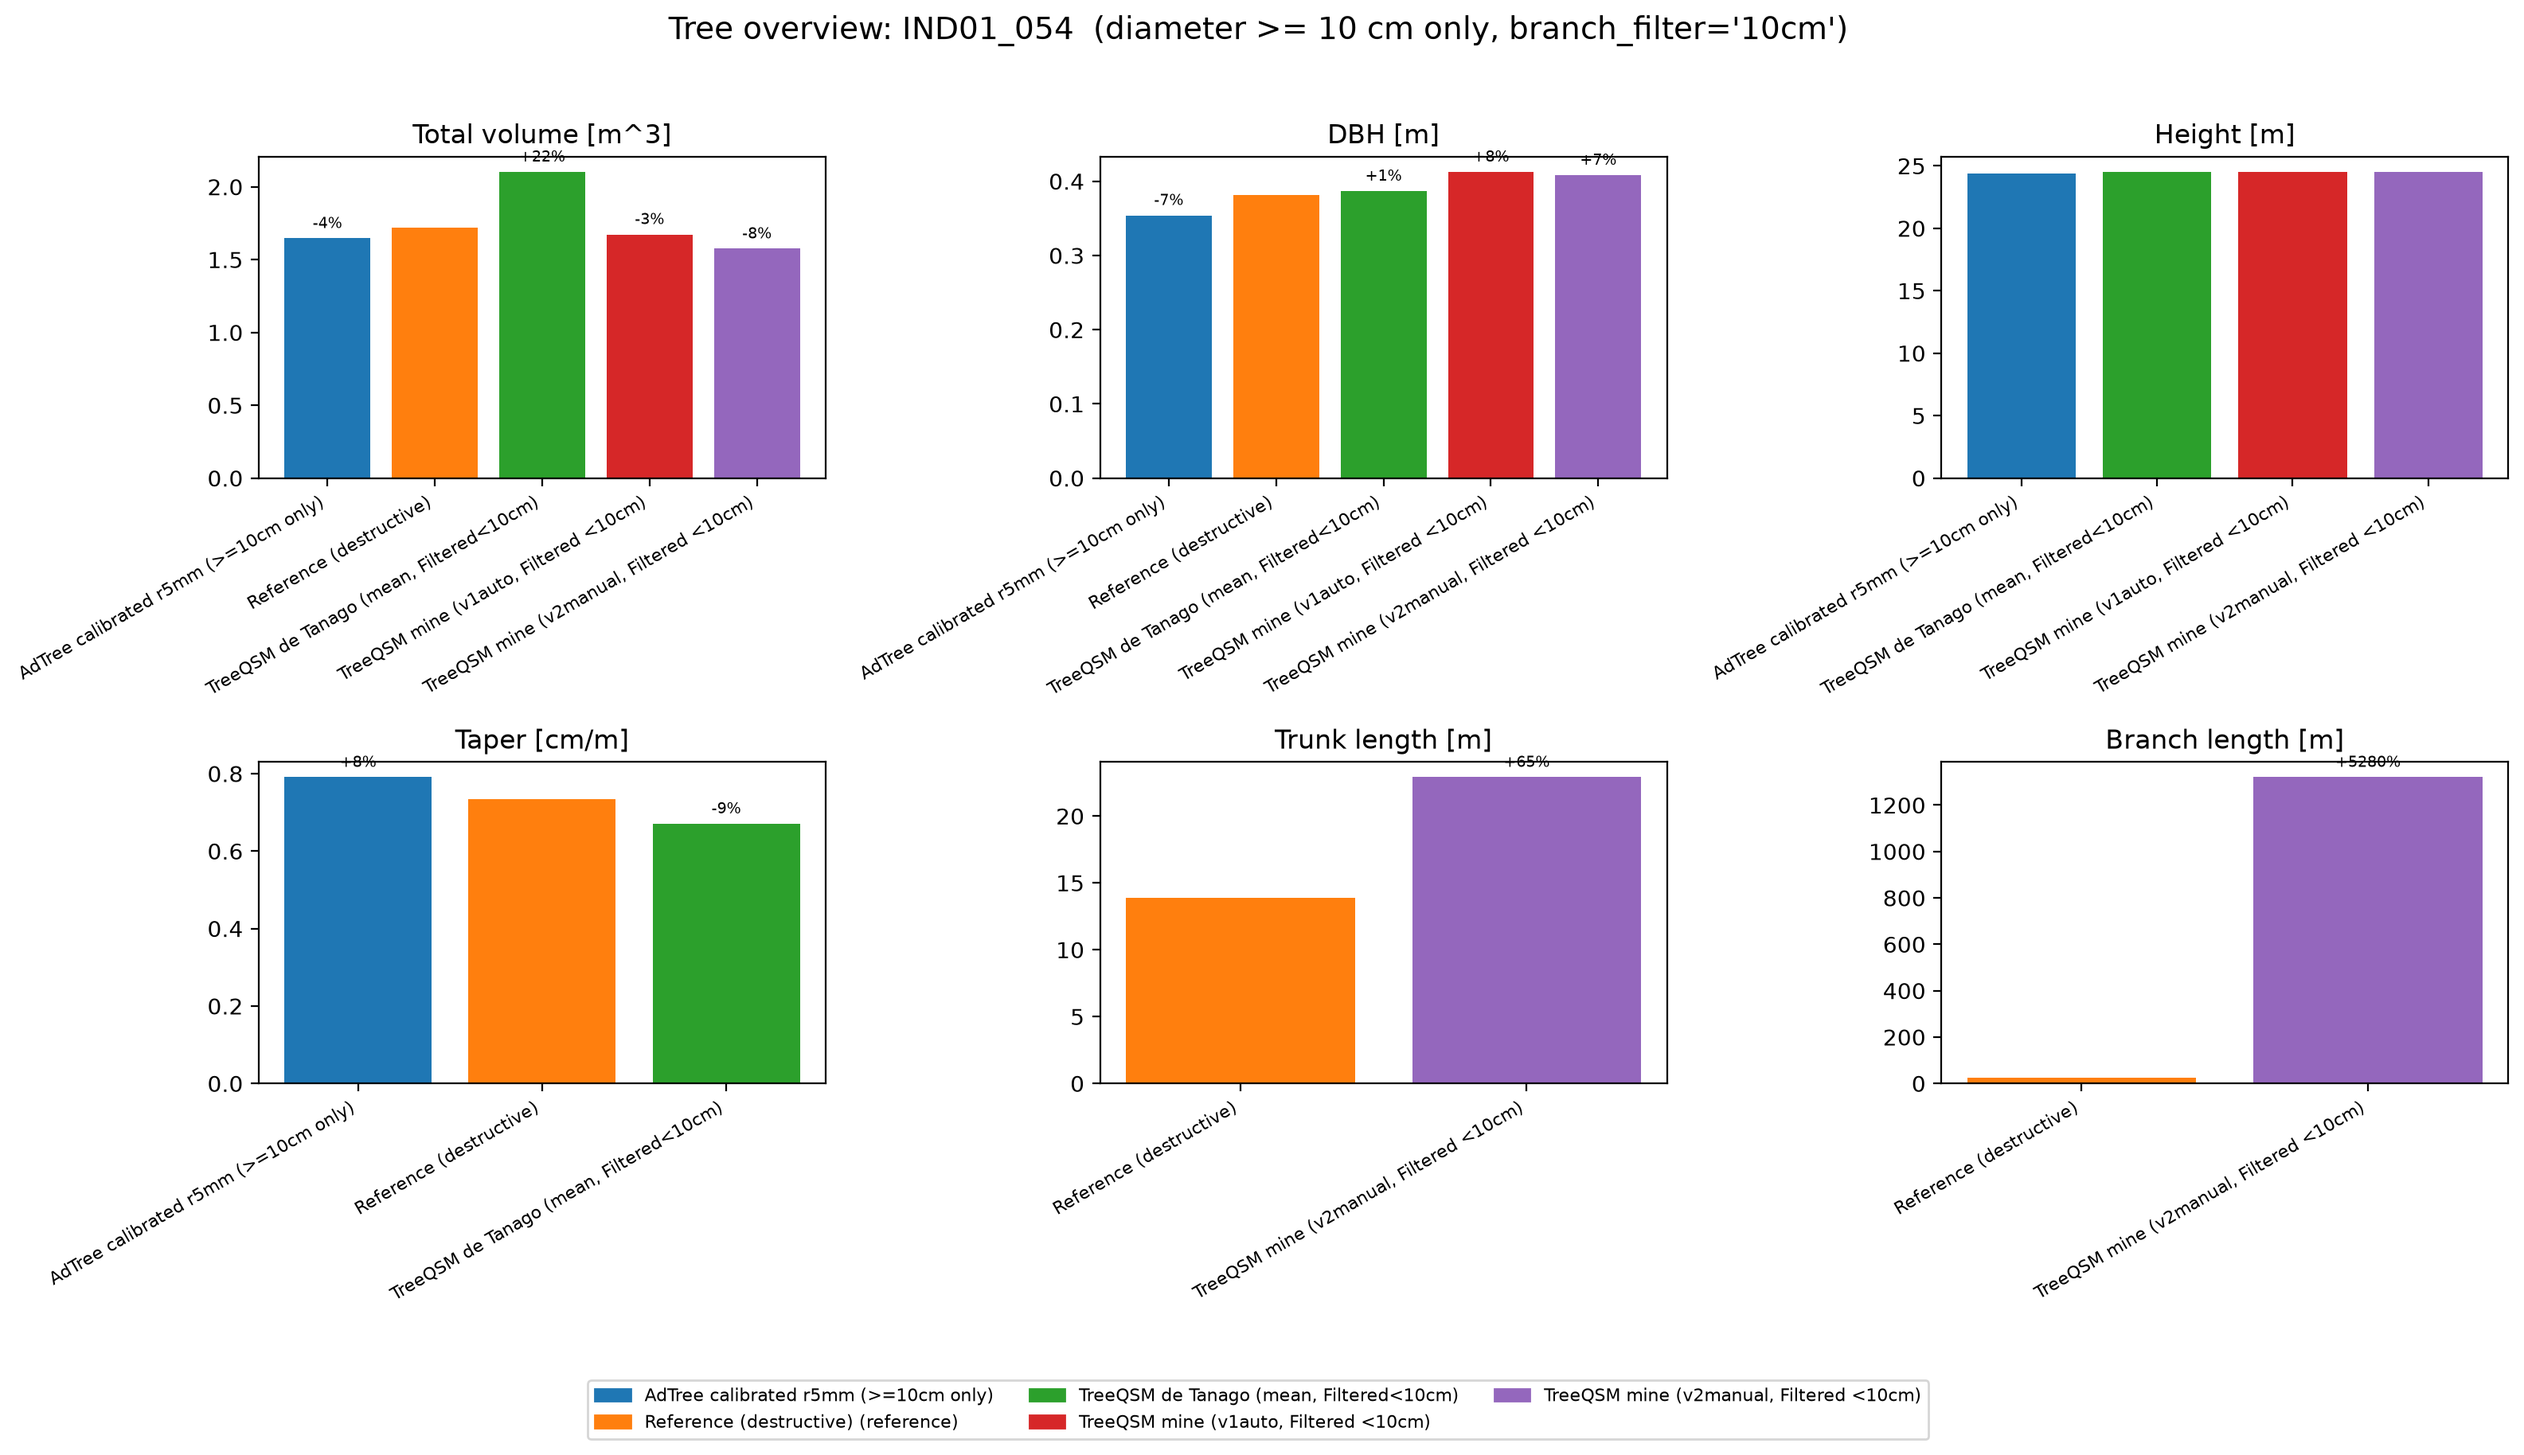
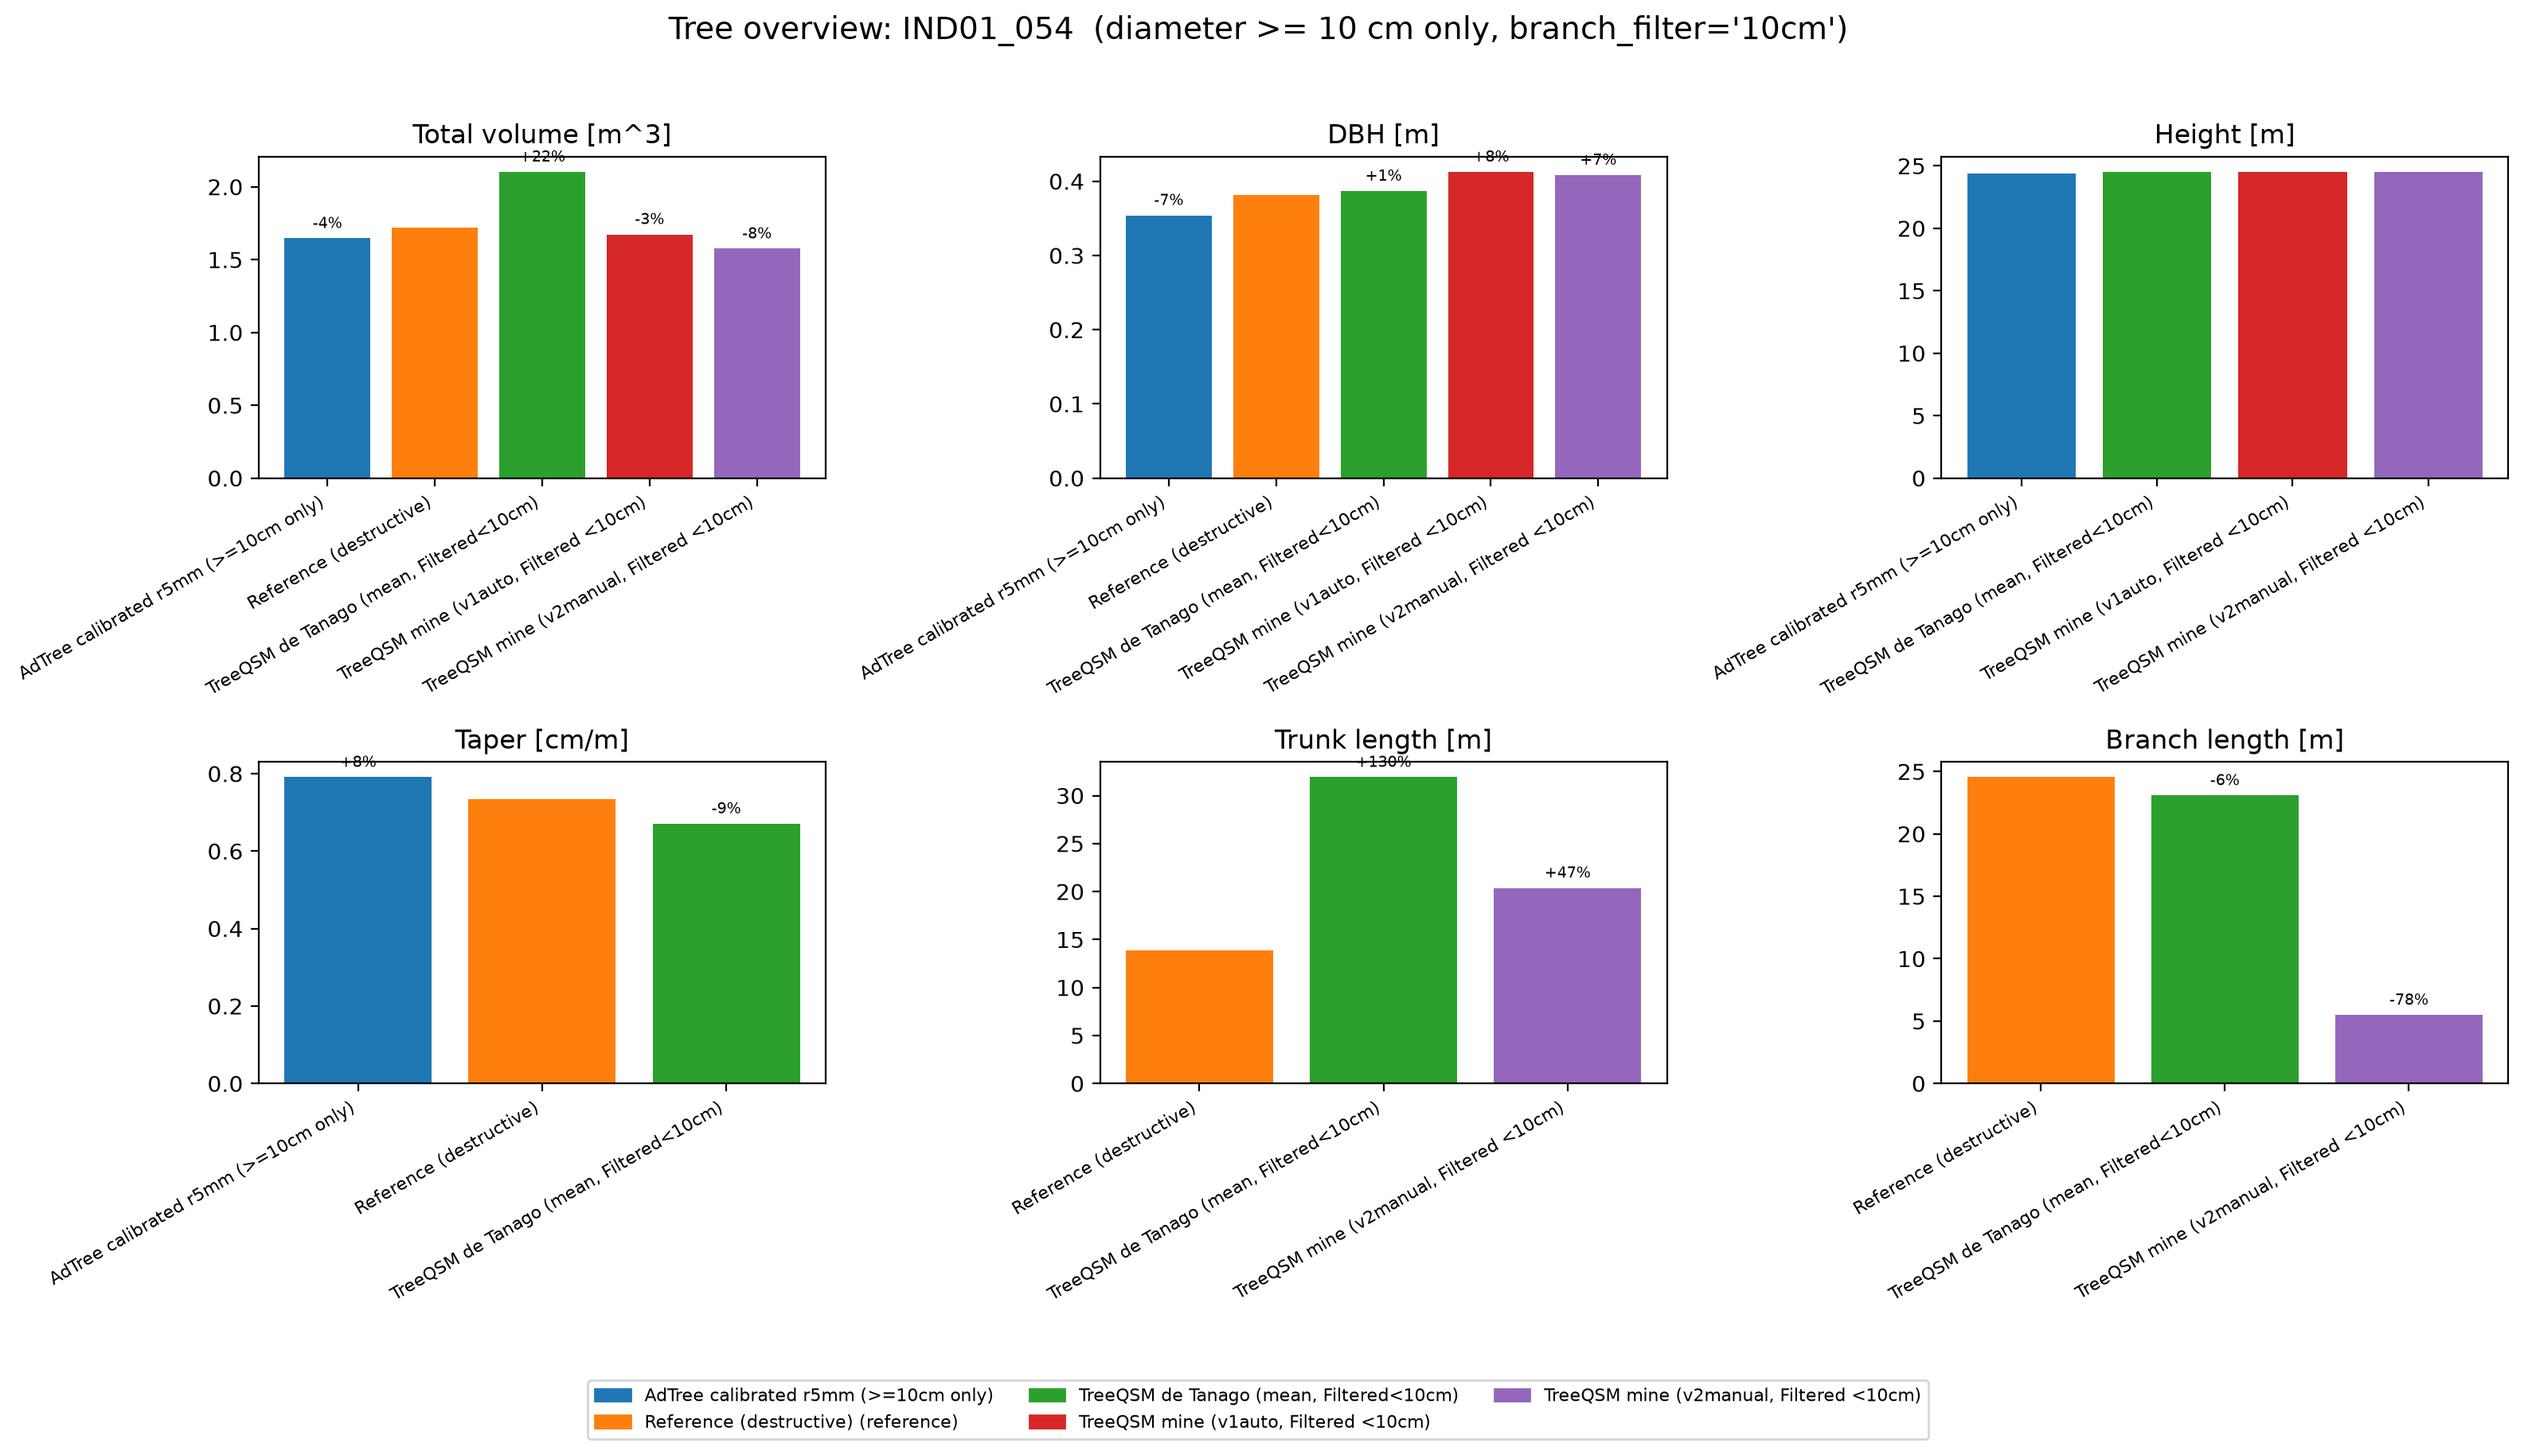
changed fexport of branches for filtered trees

diff --git a/scripts/python/import_matlab_results.py b/scripts/python/import_matlab_results.py
@@ -35,7 +35,7 @@ FILE_PATTERN = "volumes_*.csv"
 # Which Group to import from each table. "Estimated" uses the optimal
 # models plus the second run, so it has the most reliable mean and std.
 # Other valid choices: "Optimal", "All inputs", "Optimal (single)", "Simplified", "Filtered <10cm".
-IMPORT_GROUP = "Optimal"
+IMPORT_GROUP = "Filtered <10cm"  # the de Tanago field crew physically only measured sections down to a 10 cm taper diameter (see AdQSM.pdf Appendix A) - this reference NEVER has a "none" (full/unfiltered) version, by methodology.
 
 # Shared master results table (read by compare_volumes.py).
 RESULTS_CSV = "volume_results.csv"
@@ -173,25 +173,51 @@ for path in files:
     tree = TREE_ID_MAP.get(tree_raw, tree_raw)      # map short id -> full id
     method = "TreeQSM mine (%s, %s)" % (run, IMPORT_GROUP)
 
-    # Optional DBH/height/trunk-length/branch-length, read from
-    # "dbh_<tree>_<run>.txt" / "height_<tree>_<run>.txt" /
-    # "trunklen_<tree>_<run>.txt" / "branchlen_<tree>_<run>.txt" next to the
-    # volumes table (single number each: metres for all four). The MATLAB
+    # Optional DBH/height, read from "dbh_<tree>_<run>.txt" / "height_<tree>_<run>.txt"
+    # next to the volumes table (single number each, in metres). The MATLAB
     # volumes_*.csv tables don't export a diameter profile, so taper cannot be
     # derived here and is always left as None.
     table_dir = os.path.dirname(path)
     dbh = read_single_number(os.path.join(table_dir, "dbh_%s_%s.txt" % (tree, run)))
     height = read_single_number(os.path.join(table_dir, "height_%s_%s.txt" % (tree, run)))
     taper = None
-    trunk_len = read_single_number(os.path.join(table_dir, "trunklen_%s_%s.txt" % (tree, run)))
-    branch_len = read_single_number(os.path.join(table_dir, "branchlen_%s_%s.txt" % (tree, run)))
 
     # branch_filter: "10cm" for any group whose NAME says it's restricted to
     # branches >= 10 cm diameter (currently only IMPORT_GROUP = "Filtered
     # <10cm", from runsken.m's section 17b) - "none" for every other group
     # (Estimated/Optimal/Optimal (single)/All inputs/Simplified), which use
-    # the full, unfiltered TreeQSM cylinder model.
+    # the full, unfiltered TreeQSM cylinder model. Computed BEFORE the
+    # trunk/branch length read below, so that read can reuse this exact same
+    # test to pick the right length file - see comment there.
     branch_filter = "10cm" if "Filtered" in IMPORT_GROUP else "none"
+
+    # Trunk/branch length: runsken.m section 18 exports TWO separate pairs of
+    # files - "trunklen_/branchlen_<tree>_<run>.txt" hold the UNFILTERED
+    # model's length (correct for Optimal/Estimated/... groups), while
+    # "trunklen_filtered_/branchlen_filtered_<tree>_<run>.txt" hold the
+    # length AFTER the same 10 cm cut-off as the "Filtered <10cm" group's
+    # volume. Reading the unfiltered file for a filtered group would silently
+    # pair a filtered VOLUME with an unfiltered LENGTH - so which file to read
+    # is decided by the SAME branch_filter test used just above, not a second,
+    # differently-worded check.
+    if branch_filter == "10cm":
+        trunk_len_file = "trunklen_filtered_%s_%s.txt" % (tree, run)
+        branch_len_file = "branchlen_filtered_%s_%s.txt" % (tree, run)
+    else:
+        trunk_len_file = "trunklen_%s_%s.txt" % (tree, run)
+        branch_len_file = "branchlen_%s_%s.txt" % (tree, run)
+
+    trunk_len = read_single_number(os.path.join(table_dir, trunk_len_file))
+    branch_len = read_single_number(os.path.join(table_dir, branch_len_file))
+    if branch_filter == "10cm" and (trunk_len is None or branch_len is None):
+        # Don't crash - just flag it clearly so it's not silently wrong: an
+        # older MATLAB run (before this fix) won't have written these two
+        # files yet, and re-using the unfiltered length would be the exact
+        # bug this change fixes. Re-run runsken.m for this tree/run to get them.
+        print("  WARNING: missing filtered length file(s) for %s / %s (%s / %s) - "
+              "trunk_len/branch_len left blank for this row. Re-run runsken.m "
+              "for this tree/run to generate them."
+              % (tree, run, trunk_len_file, branch_len_file))
 
     upsert_result(RESULTS_CSV, tree, method, total, stem, branch, std, dbh, height, taper,
                   trunk_len, branch_len, branch_filter=branch_filter)

diff --git a/scripts/matlab/runsken.m b/scripts/matlab/runsken.m
@@ -385,6 +385,28 @@ fprintf('Stem volume removed  : %.3f m3 (%.1f %%)\n', ...
 fprintf('Branch volume removed: %.3f m3 (%.1f %%)\n', ...
     Vbranch_total - Vbranch_filt, Vbranch_removed_pct);
 
+% --- same cut-off, but applied to LENGTH instead of volume ------------
+% Uses the SAME keep/is_stem/is_branch masks and the SAME L_cyl array
+% already used for Vstem_filt/Vbranch_filt above - just sum(L_cyl(...))
+% instead of sum(V_cyl(...)). This lets "TreeQSM mine (*, Filtered<10cm)"
+% report its OWN filtered trunk/branch length (exported in section 18
+% below) instead of reusing the unfiltered model's length.
+Lstem_filt   = sum(L_cyl(keep_stem));
+Lbranch_filt = sum(L_cyl(keep_branch));
+
+Lstem_total   = sum(L_cyl(is_stem));
+Lbranch_total = sum(L_cyl(is_branch));
+
+Lstem_removed_pct   = (Lstem_total   - Lstem_filt)   / Lstem_total   * 100;
+Lbranch_removed_pct = (Lbranch_total - Lbranch_filt) / Lbranch_total * 100;
+
+fprintf('Stem length kept     : %.3f m\n', Lstem_filt);
+fprintf('Branch length kept   : %.3f m\n', Lbranch_filt);
+fprintf('Stem length removed  : %.3f m (%.1f %%)\n', ...
+    Lstem_total - Lstem_filt, Lstem_removed_pct);
+fprintf('Branch length removed: %.3f m (%.1f %%)\n', ...
+    Lbranch_total - Lbranch_filt, Lbranch_removed_pct);
+
 V_filtered = [Vtotal_filt, Vstem_filt, Vbranch_filt];
 fprintf('Check: stem+branch total = %.3f m3 (should equal %.3f m3)\n', ...
     Vstem_total + Vbranch_total, sum(V_cyl));
@@ -485,6 +507,25 @@ branchlen_file = ['branchlen_' tree_id '_' run_tag '.txt'];
 fid = fopen(branchlen_file, 'w');
 fprintf(fid, '%.6f', QSM_opt.treedata.BranchLength);   % branch length [m]
 fprintf('Branch length exported to %s\n', branchlen_file);
+fclose(fid);
+%
+% ---- export FILTERED (>= cut_cm diameter) trunk/branch length ----
+% ADDED, does not replace trunklen_*.txt/branchlen_*.txt above: those two
+% still hold the UNFILTERED length (used by Optimal/Estimated/... groups).
+% These two new files hold Lstem_filt/Lbranch_filt from section 17b, for
+% the "Filtered <10cm" group specifically - different filename so neither
+% overwrites the other, and import_matlab_results.py picks the right one
+% based on which group it's importing.
+trunklen_filtered_file = ['trunklen_filtered_' tree_id '_' run_tag '.txt'];
+fid = fopen(trunklen_filtered_file, 'w');
+fprintf(fid, '%.6f', Lstem_filt);   % filtered trunk/stem length [m]
+fprintf('Filtered trunk length exported to %s\n', trunklen_filtered_file);
+fclose(fid);
+%
+branchlen_filtered_file = ['branchlen_filtered_' tree_id '_' run_tag '.txt'];
+fid = fopen(branchlen_filtered_file, 'w');
+fprintf(fid, '%.6f', Lbranch_filt);   % filtered branch length [m]
+fprintf('Filtered branch length exported to %s\n', branchlen_filtered_file);
 fclose(fid);
 %% ------------------------------------------------------------
 %  19) EXPORT - table with the input parameters of each model

diff --git a/scripts/python/compare_volumes.py b/scripts/python/compare_volumes.py
@@ -314,7 +314,7 @@ if __name__ == "__main__":
     # the fair, apples-to-apples accuracy check - see the header comment for why).
     # ====================================================================
     print("#" * 118)
-    print("=== SROVNANI S REFERENCI (vetve/kmen >= 10 cm) ===")
+    print("=== COMPARISON AGAINST REFERENCE (branches/trunks >= 10 cm) ===")
     print("#" * 118)
     print()
 
@@ -361,7 +361,7 @@ if __name__ == "__main__":
     # ====================================================================
     print()
     print("#" * 118)
-    print("=== SROVNANI METOD MEZI SEBOU (plna rekonstrukce, vcetne tenkych vetvi) ===")
+    print("=== COMPARISON OF METHODS (full reconstruction, including thin branches) ===")
     print("#" * 118)
     print()
 
